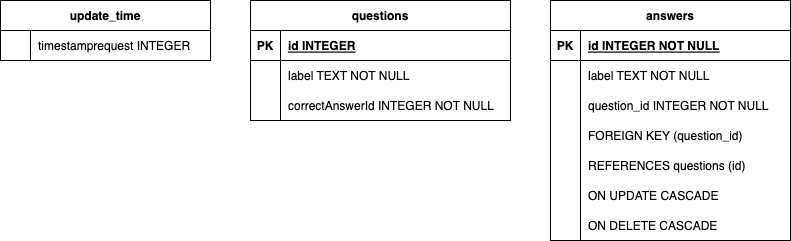
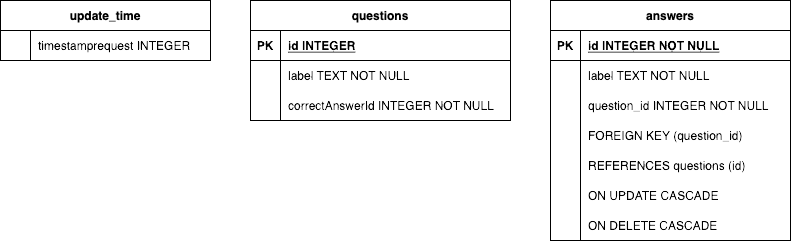
update some image background

diff --git a/docs/src/nav/README.md b/docs/src/nav/README.md
@@ -2,31 +2,20 @@
 
 ##  🧪 Create Navigation between composable screens 
 
-[`PreCompose`](https://github.com/Tlaster/PreCompose/blob/master/docs/component/navigation.md) is a third party library that enables missing features
-of the KMP beta. 
+Compose multiplatform navigation library enable a navigation with `navigation host`
 
-It can enables feature similar to Android Jetpack compose such as : 
-* Navigation with navigation host
-* ViewModel from Android Architecture pattern
-* Molecule that improve business logic development thanks to flows
 
-For this Hands-on Lab we will mainly focus on navigation feature of PreCompose.
+#### Add `Navigation` dependency to your project
 
-#### Add `PreCompose` dependency to your project
-
-::: details gradle.build.kts (module : shared)
+::: details gradle.build.kts (module : composeApp)
 ```kotlin
 ...
-val commonMain by getting {
-            dependencies {
-                ...
-                api("moe.tlaster:precompose:1.5.10")
+ commonMain.dependencies {
+            ...
+            implementation(libs.kotlin.navigation)
 ...
-
 ```
 ::: 
-
-
 
 #### Create your navigation host 
 
@@ -43,43 +32,58 @@ For this Hands-on Lab we need 3 routes for :
 * from Welcome screen to the `QuizScreen`
 * from the final question `QuizScreen`to the `ScoreScreen` 
 
-::: details Navhost.kt (SourceSet: commonMain)
+::: details App.kt (SourceSet: commonMain)
 ```kotlin
-private val quizRepository = QuizRepository()
-
 @Composable
-internal fun rootNavHost() {
+fun App(
+    viewModel: QuizViewModel = viewModel { QuizViewModel() },
+    navController: NavHostController = rememberNavController()
+) {
 
-    val navigator = rememberNavigator()
-    NavHost(
-        navigator = navigator,
-        navTransition = NavTransition(),
-        initialRoute = "/welcome",
-    ) {
-        scene(
-            route = "/welcome",
-            navTransition = NavTransition(),
+    MaterialTheme {
+        NavHost(
+            navController = navController,
+            startDestination = "/welcome",
         ) {
-            welcomeScreen(navigator)
-        }
-        scene(
-            route = "/quiz",
-            navTransition = NavTransition(),
-        ) {
-
-            val questions = quizRepository.questionState.collectAsState()
-
-            if (questions.value.isNotEmpty()) {
-                questionScreen(navigator, questions.value)
+            composable(route = "/welcome") {
+                welcomeScreen(
+                    onStartButtonPushed = {
+                        navController.navigate(route = "/quiz")
+                    }
+                )
             }
-        }
-        scene(
-            route = "/score/{score}",
-            navTransition = NavTransition(),
-        ) { backStackEntry ->
-            backStackEntry.path<String>("score")?.let { score ->
-                scoreScreen(navigator, score)
+            composable(route = "/quiz") {
+
+                val questions by viewModel.questionState.collectAsState()
+
+                if (questions.isNotEmpty()) {
+                    questionScreen(
+                        questions = questions,
+                        onFinishButtonPushed = { score: Int, questionSize: Int ->
+
+                            /* FOR SPEAKER TALK DEMO ON WEB APP */ if (getPlatform().name == "WASM") viewModel.postStats(
+                            score,
+                            "user-${(0..1000).random()}"
+                        )
+                            navController.navigate(route = "/score/$score/$questionSize")
+                        },
+                        /* FOR SPEAKER TALK DEMO ON WEB APP */
+                        onSaveStatQuestion = { id: Long, question: String, answerId: Long, correctAnswerId: Long, answer: String ->
+                            viewModel.addStats(id, question, answerId, correctAnswerId, answer)
+                        }
+                    )
+                }
             }
+            composable(route = "/score/{score}/{total}") {
+                scoreScreen(
+                    score = it.arguments?.getString("score").toString(),
+                    total = it.arguments?.getString("total").toString(),
+                    onResetButtonPushed = {
+                        navController.navigate(route = "/quiz")
+                    }
+                )
+            }
+
         }
     }
 }
@@ -101,67 +105,51 @@ internal fun welcomeScreen(navigator: Navigator){
 ```
 :::
 
-### Declare your App composable as a PrecomposeApp
-::: details App.kt (module : shared)
-```kotlin 
-
-@Composable
-fun App(){
-    MaterialApp{
-        PreComposeApp {
-            rootNavHost() 
-        }
-```
-:::
-
 #### Use the navigation host
 
-##### instantiate the navHost on the App main composable.
-Because the `WelcomeScreen` was set as initialRoute, it will start correctly the quizz
+##### Use the callback
 
-::: details App.kt (SourceSet : commonMain)*
-
-```kotlin
-@Composable
-internal fun App() {
-    MaterialTheme {
-        rootNavHost()
-    }
-}
-```
-:::
-
-##### User the `navigator`on screen buttons click
+Use `onStartButtonPushed` declared on screen instantiation in the `NavHost` on welcome screen buttons click
 
 ::: details WelcomeScreen.kt (SourceSet: commonMain)
 ```kotlin
 ...
-Button(
-    modifier = Modifier.padding(all = 10.dp),
-    onClick = { navigator.navigate(route = "/quiz") }
-) {
-    Text("Start the Quizz")
-}
+    Button(
+        modifier = Modifier.padding(all = 10.dp),
+        onClick = { onStartButtonPushed() }
+    ) {
 ...
 ```
+
+The same can be done for other screens
 
 *QuestionScreen.kt* (commonMain)
 ```kotlin
 ...
 Button(
-    modifier = Modifier.padding(bottom = 20.dp),
-    onClick = {
-        if(selectedAnswer == questions[questionProgress].correctAnswerId) {
-            score++ // Increment the score when answer is correct
-        }
-        if (questionProgress < questions.size - 1) {
-            questionProgress++ // Case 1 : Still some questions
-            selectedAnswer = 1 // -> recompose QuizQuestion
-        }else{
-            // Case 2 : no more questions
-            // -> navigate to score screen
-            navigator.navigate("/score/$score out of ${questions.size}")
-        }
+                modifier = Modifier.padding(bottom = 20.dp),
+                onClick = {
+                    /* FOR SPEAKER TALK DEMO ON WEB APP */
+                    if (getPlatform().name == "WASM") {
+                        onSaveStatQuestion(
+                            questions[questionProgress].id,
+                            questions[questionProgress].label,
+                            selectedAnswer,
+                            questions[questionProgress].correctAnswerId,
+                            questions[questionProgress].answers[selectedAnswer.toInt() - 1].label
+                        )
+                    }
+
+                    if (selectedAnswer == questions[questionProgress].correctAnswerId) {
+                        score++
+                    }
+                    if (questionProgress < questions.size - 1) {
+                        questionProgress++
+                        selectedAnswer = 1
+                    } else {
+                        onFinishButtonPushed(score, questions.size)
+                    }
+                }
 }
 ...
 ```
@@ -170,28 +158,21 @@ Button(
 ::: details ScoreScreen.kt (SourceSet : commonMain)
 ```kotlin
 ...
-Button(
-    modifier = Modifier.padding(all = 20.dp),
+ Button(
+     modifier = Modifier.padding(all = 20.dp),
     onClick = {
-        navigator.navigate(route = "/quiz")
-    }
-) {
-    Icon(Icons.Filled.Refresh, contentDescription = "Localized description")
-    Text(text = "Retake the Quizz",)
-}
+        onResetButtonPushed()
+     }
+ ) 
 ...
 ```
 :::
 
-::: warning
-Depending of your JDK used, compiler can complain about mismatch of jvm version for android and desktop.
-In that case, update your `jvmtarget` defined in `build.gradle.kts` (shared) 
-:::
 
 ## 🎯 Solutions
 
 ::: tip
-The full sources can be retrieved [here](https://github.com/worldline/learning-kotlin-multiplatform/raw/main/docs/src/assets/solutions/4.navigation.zip) 
+The full sources can be retrieved [here](#) 
 :::
 
 ## 👷♂ Manage  ressources

diff --git a/docs/src/configure/README.md b/docs/src/configure/README.md
@@ -329,13 +329,11 @@ android-compileSdk = "34"
 android-minSdk = "24"
 android-targetSdk = "34"
 androidx-activityCompose = "1.9.0"
-androidx-appcompat = "1.7.0"
-androidx-constraintlayout = "2.1.4"
-androidx-core-ktx = "1.13.1"
+
 logback = "1.5.6"
 navigation = "2.7.0-alpha07"
 androidx-viewmodel = "2.8.0-rc03"
-androidx-material = "1.12.0"
+
 compose-plugin = "1.6.11"
 
 kotlinxCoroutinesCore = "1.8.1"
@@ -350,9 +348,6 @@ androidx-lifecycle-viewmodel-compose = { module = "org.jetbrains.androidx.lifecy
 kotlinx-coroutines-core = { module = "org.jetbrains.kotlinx:kotlinx-coroutines-core", version.ref = "kotlinxCoroutinesCore" }
 kotlin-navigation = { module = "org.jetbrains.androidx.navigation:navigation-compose", version.ref = "navigation" }
 kotlinx-datetime = { module = "org.jetbrains.kotlinx:kotlinx-datetime", version.ref = "kotlinxDatetime" }
-androidx-appcompat = { group = "androidx.appcompat", name = "appcompat", version.ref = "androidx-appcompat" }
-androidx-material = { group = "com.google.android.material", name = "material", version.ref = "androidx-material" }
-androidx-constraintlayout = { group = "androidx.constraintlayout", name = "constraintlayout", version.ref = "androidx-constraintlayout" }
 
 ktor-serialization-kotlinx-json = { module = "io.ktor:ktor-serialization-kotlinx-json", version.ref = "ktorVersion" }
 ktor-client-core = { module = "io.ktor:ktor-client-core", version.ref = "ktorVersion" }
@@ -366,9 +361,6 @@ kstore = { module = "io.github.xxfast:kstore", version.ref = "kstore" }
 kstore-file = { module = "io.github.xxfast:kstore-file", version.ref = "kstore" }
 kstore-storage = { module = "io.github.xxfast:kstore-storage", version.ref = "kstore" }
 harawata-appdirs = { module = "net.harawata:appdirs", version.ref = "appdirs" }
-
-# Web
-#ktor-client-js = { module = "io.ktor:ktor-client-js", version.ref = "ktorVersion" }
 
 # Server
 ktor-server-core = { module = "io.ktor:ktor-server-core-jvm", version.ref = "ktorVersion" }
